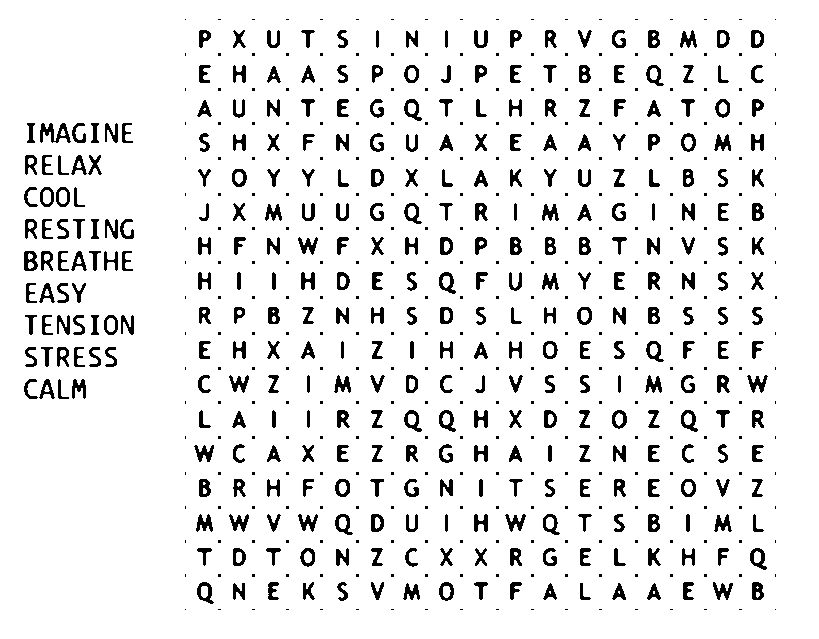
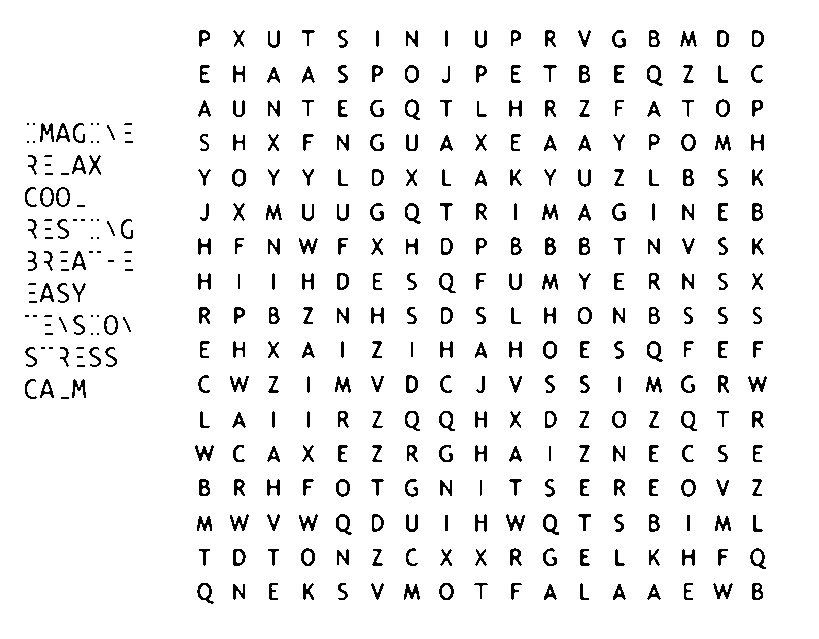
1

diff --git a/src/preprocessing.c b/src/preprocessing.c
@@ -108,34 +108,65 @@ static unsigned char otsu_threshold(Image *src)
     return (unsigned char)bestT;
 }
 
-static unsigned char auto_threshold(Image *src)
+Image* to_binary_auto(Image *src)
+{
+    unsigned char thr = otsu_threshold(src);
+    return to_binary(src, thr);
+}
+
+Image* remove_grid_lines(Image *src)
 {
     if (!src || !src->data || src->channels != 1)
-        return 128;
+        return NULL;
 
     int w = src->width;
     int h = src->height;
-    int N = w * h;
+    size_t N = (size_t)w * h;
 
-    unsigned char maxv = 0;
-    for (int i = 0; i < N; ++i) {
-        unsigned char v = src->data[i];
-        if (v > maxv)
-            maxv = v;
+    Image *dst = malloc(sizeof(Image));
+    if (!dst) return NULL;
+    dst->width = w;
+    dst->height = h;
+    dst->channels = 1;
+    dst->data = malloc(N);
+    if (!dst->data) {
+        free(dst);
+        return NULL;
     }
 
-    if (maxv > 240) {
-        unsigned char thr = (unsigned char)(maxv - 20);  // ex: 255 -> 235
-        return thr;
+    memcpy(dst->data, src->data, N);
+
+    int min_run = w / 40;
+    if (min_run < 10)
+        min_run = 10;
+
+    for (int y = 0; y < h; ++y) {
+        for (int x = 0; x < w; ++x) {
+            if (src->data[y * w + x] != 0)  // on ne regarde que les pixels noirs
+                continue;
+
+            int xl = x;
+            while (xl > 0 && src->data[y * w + (xl - 1)] == 0)
+                xl--;
+            int xr = x;
+            while (xr + 1 < w && src->data[y * w + (xr + 1)] == 0)
+                xr++;
+            int hrun = xr - xl + 1;
+
+            int yt = y;
+            while (yt > 0 && src->data[(yt - 1) * w + x] == 0)
+                yt--;
+            int yb = y;
+            while (yb + 1 < h && src->data[(yb + 1) * w + x] == 0)
+                yb++;
+            int vrun = yb - yt + 1;
+
+            if (hrun >= min_run || vrun >= min_run)
+                dst->data[y * w + x] = 255;
+        }
     }
 
-    return otsu_threshold(src);
-}
-
-Image* to_binary_auto(Image *src)
-{
-    unsigned char thr = auto_threshold(src);
-    return to_binary(src, thr);
+    return dst;
 }
 
 static Image* copy_image_1c(const Image *src)

diff --git a/src/main.c b/src/main.c
@@ -58,8 +58,11 @@ int main(void)
 	Image *bin = to_binary_auto(contrast);
 	free_image(contrast);
 
-	Image *clean = denoise_image_median3x3(bin);
+	Image *no_grid = remove_grid_lines(bin);
 	free_image(bin);
+
+	Image *clean = denoise_image_median3x3(no_grid);
+	free_image(no_grid);
 
 	save_image(output_path, clean);
 	free_image(clean);

diff --git a/src/preprocessing.h b/src/preprocessing.h
@@ -5,6 +5,7 @@
 
 Image* enhance_contrast(Image *src);
 Image* to_grayscale(Image *src);
+Image* remove_grid_lines(Image *src);
 Image* to_binary(Image *src, unsigned char threshold);
 Image* to_binary_auto(Image* src);
 Image* straighten_grid(Image *src);
